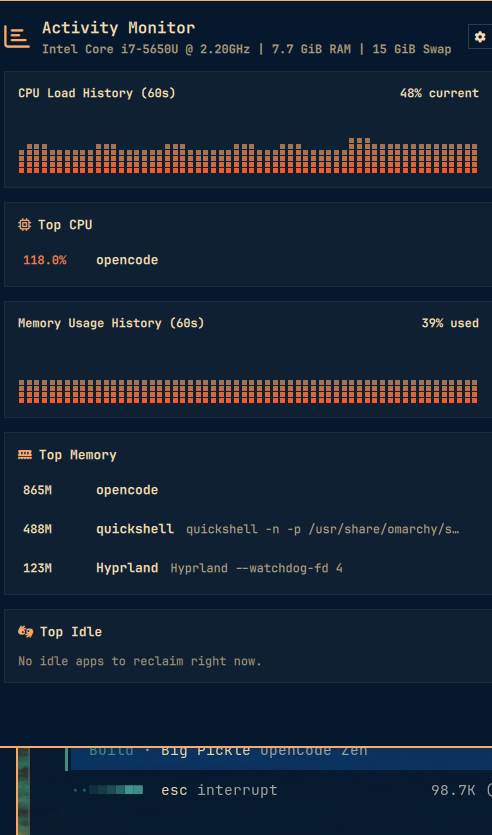
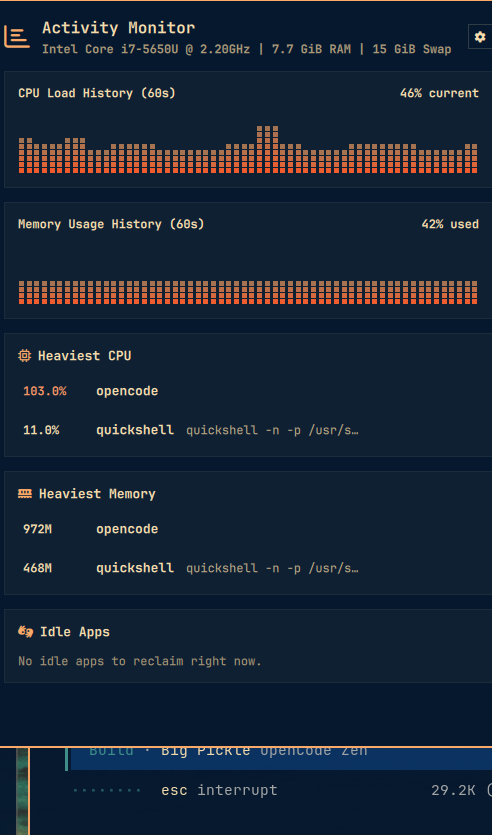
Rename process lists, group graphs, add quit/force everywhere
- Heaviest CPU, Heaviest Memory, and Idle Apps replace Top CPU/Top Memory/Top Idle
- CPU and memory history graphs sit together ahead of the process lists
- Every list row offers consent-confirmed Quit/Force, not just idle rows
- Memory threshold raised to 200 MiB resident
- Refresh the panel preview screenshot

diff --git a/SystemPanel.qml b/SystemPanel.qml
@@ -37,9 +37,9 @@ KeyboardPanel {
     return secs >= 120 ? Math.floor(secs / 60) + " min" : secs + "s"
   }
 
-  // Process list state. Three fixed lists (Top CPU, Top RAM,
-  // Top Idle) each capped at a handful of rows; pending* is the one-shot
-  // confirm state for a kill offered on idle rows only.
+  // Process list state. Three fixed lists (Heaviest CPU, Heaviest Memory,
+  // Idle Apps) each capped at a handful of rows; pending* is the one-shot
+  // confirm state for a kill offered on any row.
   property int topProcessCount: 15
   property int pendingPid: 0
   property string pendingSig: ""
@@ -47,9 +47,9 @@ KeyboardPanel {
 
   readonly property int sectionRows: Math.min(Math.max(root.topProcessCount, 1), 5)
 
-  // Top CPU only counts processes pulling more than 10% of a core; Top Memory
-  // only counts processes above 100 MiB resident. Both lists still cap rows so
-  // the panel stays short.
+  // Heaviest CPU only counts processes pulling more than 10% of a core;
+  // Heaviest Memory only counts processes above 200 MiB resident. Both lists
+  // still cap rows so the panel stays short.
   function sliceProcessList(report, key, filter) {
     var arr = report && report.ok ? report[key] : []
     if (arr === undefined || arr === null) arr = []
@@ -65,7 +65,7 @@ KeyboardPanel {
     return e && isFinite(e.cpuPct) && e.cpuPct > 10
   })
   readonly property var processMemList: sliceProcessList(hw.processReport, "mem", function(e) {
-    return e && isFinite(e.rssKib) && e.rssKib > 102400
+    return e && isFinite(e.rssKib) && e.rssKib > 204800
   })
   readonly property var processIdleList: sliceProcessList(hw.processReport, "idle")
 
@@ -530,7 +530,7 @@ Text {
           }
         }
 
-        // 2. CPU Load History Graph above the Top CPU list
+        // CPU load history graph, above the Heaviest CPU list
         HistoryGraph {
           title: "CPU Load History (" + root.historyWindowLabel + ")"
           values: hw.cpuHistory
@@ -538,8 +538,16 @@ Text {
           currentColor: root.warm(root.baseColor, Model.severity(hw.cpuPercent, root.warnPercent, root.criticalPercent))
         }
 
+        // Memory Usage History right after the CPU trend, so the two graphs sit
+        // together as one history block.
+        HistoryGraph {
+          title: "Memory Usage History (" + root.historyWindowLabel + ")"
+          values: hw.memHistory
+          currentText: hw.memPercent >= 0 ? (Math.round(hw.memPercent) + "% used") : "–"
+          currentColor: root.warm(root.baseColor, Model.severity(hw.memPercent, root.warnPercent, root.criticalPercent))
+        }
 
-        // 6. Graphics Telemetry Section (if GPU present)
+        // Graphics Telemetry Section (if GPU present)
         Rectangle {
           width: parent.width
           implicitHeight: gpuCol.implicitHeight + Style.space(24)
@@ -660,9 +668,9 @@ Text {
           }
         }
 
-        // 7-9. Three short process lists — Top CPU, Top RAM, Top Idle — are the
-        // reason the panel exists. Idle shows the reclaimable set and is the
-        // only one offering consent-confirmed quit/force actions.
+        // Three short process lists — Heaviest CPU, Heaviest Memory, Idle Apps — are
+        // the reason the panel exists. Every row offers consent-confirmed
+        // Quit / Force actions.
         Text {
           textFormat: Text.PlainText
           width: parent.width
@@ -675,22 +683,15 @@ Text {
         }
 
         ProcessSection {
-          title: "Top CPU"
+          title: "Heaviest CPU"
           glyph: "\uF4BC"
           listModel: root.processCpuList
           scope: "cpu"
           emptyText: "No running processes."
         }
 
-        HistoryGraph {
-          title: "Memory Usage History (" + root.historyWindowLabel + ")"
-          values: hw.memHistory
-          currentText: hw.memPercent >= 0 ? (Math.round(hw.memPercent) + "% used") : "–"
-          currentColor: root.warm(root.baseColor, Model.severity(hw.memPercent, root.warnPercent, root.criticalPercent))
-        }
-
         ProcessSection {
-          title: "Top Memory"
+          title: "Heaviest Memory"
           glyph: "\uEFC5"
           listModel: root.processMemList
           scope: "mem"
@@ -698,7 +699,7 @@ Text {
         }
 
         ProcessSection {
-          title: "Top Idle"
+          title: "Idle Apps"
           glyph: "\uF2A3"
           listModel: root.processIdleList
           scope: "idle"
@@ -755,8 +756,8 @@ Text {
     }
   }
 
-  // A titled, capped process list. Idle rows are the reclaimable ones, so that
-  // section alone offers the kill-action column; CPU/RAM lists are read-only.
+  // A titled, capped process list. Every row offers consent-confirmed Quit and
+  // Force actions; the scope only changes which metric is highlighted.
   component ProcessSection: Rectangle {
     id: section
     property string title: ""
@@ -854,8 +855,8 @@ Text {
     }
   }
 
-  // A titled history graph card used twice: CPU load above the Top CPU list and
-  // memory usage above the Top Memory list. Samples are 0-100 percent values
+  // A titled history graph card used twice: CPU load and memory usage, shown as
+  // a pair right above the process lists. Samples are 0-100 percent values
   // drawn as square pixel blocks shading from hot red at the baseline up to a
   // translucent accent tint at the top of a full column.
   component HistoryGraph: Rectangle {
@@ -1012,8 +1013,9 @@ Text {
       anchors.margins: Style.space(4)
       spacing: Style.space(10)
 
-      // Scope-specific metric, highlighted: CPU% (Top CPU / Top Idle) or
-      // resident memory (Top Memory). Single line of type, name, then cmdline.
+      // Scope-specific metric, highlighted: CPU% for the Heaviest CPU and Idle Apps
+      // lists, resident memory for Heaviest Memory. Single line of type, name,
+      // then cmdline.
       Text {
         textFormat: Text.PlainText
         width: Style.space(52)
@@ -1052,10 +1054,11 @@ Text {
         anchors.verticalCenter: parent.verticalCenter
       }
 
-      // Action column: only idle rows are reclaimable and offer a consent-gated
-      // quit/force; CPU and RAM lists stay read-only.
+      // Action column: every row offers consent-gated Quit / Force, so a
+      // runaway can be reined in from Heaviest CPU, Heaviest Memory, or the
+      // Idle Apps reclaim set.
       Item {
-        width: prow.scope === "idle" ? Style.space(88) : 0
+        width: Style.space(88)
 
         Row {
           anchors.right: parent.right
@@ -1066,14 +1069,12 @@ Text {
           ModeChip {
             label: "Quit"
             selected: false
-            visible: prow.scope === "idle"
             onPicked: prow.quitRequested()
           }
           ModeChip {
             label: "Force"
             selected: false
             activeColor: prow.hotColor
-            visible: prow.scope === "idle"
             onPicked: prow.forceRequested()
           }
         }
@@ -1086,7 +1087,7 @@ Text {
 
           Text {
             textFormat: Text.PlainText
-            text: "Quit " + Model.clampText(prow.pendingComm, 10) + "?"
+            text: (prow.pendingSignal === "kill" ? "Force " : "Quit ") + Model.clampText(prow.pendingComm, 10) + "?"
             color: prow.hotColor
             font.family: prow.fontFamily
             font.pixelSize: Style.font.caption

diff --git a/Service.qml b/Service.qml
@@ -82,9 +82,9 @@ Item {
   readonly property real gpuVramPercent: gpuVramTotalBytes > 0
     ? Model.clamp(100 * gpuVramUsedBytes / gpuVramTotalBytes, 0, 100) : -1
 
-  // The process readouts behind the popup's Top CPU, Top Memory, and Top Idle
-  // lists. processReport is replaced wholesale by the last completed proc-probe
-  // run; every consumer binds to it read-only.
+  // The process readouts behind the popup's Heaviest CPU, Heaviest Memory, and
+  // Idle Apps lists. processReport is replaced wholesale by the last completed
+  // proc-probe run; every consumer binds to it read-only.
   property var processReport: Model.parseProcessReport("")
   readonly property int processIntervalSec: intSetting("processProbeIntervalSec", 8, 3, 60)
   readonly property string procProbePath: pluginDir + "/proc-probe"

diff --git a/README.md b/README.md
@@ -3,8 +3,7 @@
 A system activity monitor for the Omarchy bar. CPU, memory, GPU, temperature, and
 fan are read straight from `/proc` and `/sys` and rendered as sleek icon
 readouts; one click opens a keyboard-driven panel with live history graphs, the
-current heaviest processes, and the idle apps you can reclaim without a
-middleman.
+current heaviest processes, and the idle apps you can reclaim.
 
 ![The Activity Monitor panel](assets/preview-panel.png)
 
@@ -21,11 +20,11 @@ middleman.
   drawn as square pixel blocks that shade from red at the baseline to a cool
   accent at the peak. Buffered continuously in the background, so the panel
   opens already populated.
-- **Top processes** — Top CPU (anything above 10% of a core), Top Memory (above
-  100 MiB resident), and Top Idle (the reclaimable GUI apps), one row each with
-  the highlighted metric, the app name, and the full command line.
-- **Reclaim idle apps** — idle rows offer consent-confirmed **Quit** (SIGTERM)
-  and **Force** (SIGKILL), and the panel re-surveys after an action.
+- **Process lists** — Heaviest CPU (anything above 10% of a core), Heaviest
+  Memory (above 200 MiB resident), and Idle Apps (the reclaimable GUI apps), one
+  row each with the highlighted metric, the app name, and the full command line.
+- **Reclaim any process** — every row offers consent-confirmed **Quit**
+  (SIGTERM) and **Force** (SIGKILL), and the panel re-surveys after an action.
 - **In-panel settings** — a drawer that lives in the panel: mode, which items
   the bar shows, memory format, temperature unit and format. No config file
   surfing.
@@ -64,8 +63,8 @@ The panel is keyboard-driven and anchored to the widget:
   square pixel blocks, red-hot at the baseline, accented at the peaks.
 - **Graphics metrics** — card name, load, temperature, VRAM meter, power,
   fan, and core clock (only when a card is present).
-- **Top CPU / Top Memory / Top Idle** — capped lists of the moment's heaviest
-  consumers. Idle rows carry the reclaim actions.
+- **Heaviest CPU / Heaviest Memory / Idle Apps** — capped lists of the moment's
+  heaviest consumers. Every row carries the reclaim actions.
 - **Keyboard** — `Escape` closes, `Tab`/`Shift+Tab` switch panels, `r` resamples,
   `c`/`f` toggle °C/°F.
 
@@ -95,7 +94,7 @@ figure.
 | GPU | its own `sysfs` counter | load, edge temperature, VRAM, board power, fan, core clock |
 | GPU (NVIDIA) | `nvidia-smi` | the same telemetry, polled on the same interval |
 | Load average | `/proc/loadavg` | 1/5/15 minute |
-| Processes | [`proc-probe`](proc-probe) survey | top CPU, top memory, reclaimable idle GUI apps |
+| Processes | [`proc-probe`](proc-probe) survey | Heaviest CPU, Heaviest Memory, and Idle Apps |
 
 ## How it samples
 
@@ -129,7 +128,7 @@ panel renders a dash rather than a zero that looks like real data.
 ## What counts as "idle"
 
 The reclaim list only ever offers user-owned GUI applications: a process counts
-when it owns a window on the compositor. To appear in the Top Idle table it must
+when it owns a window on the compositor. To appear in the Idle Apps table it must
 also be below the idle CPU threshold, hold at least the idle memory threshold,
 not be the focused window, and not be a system component.
 
